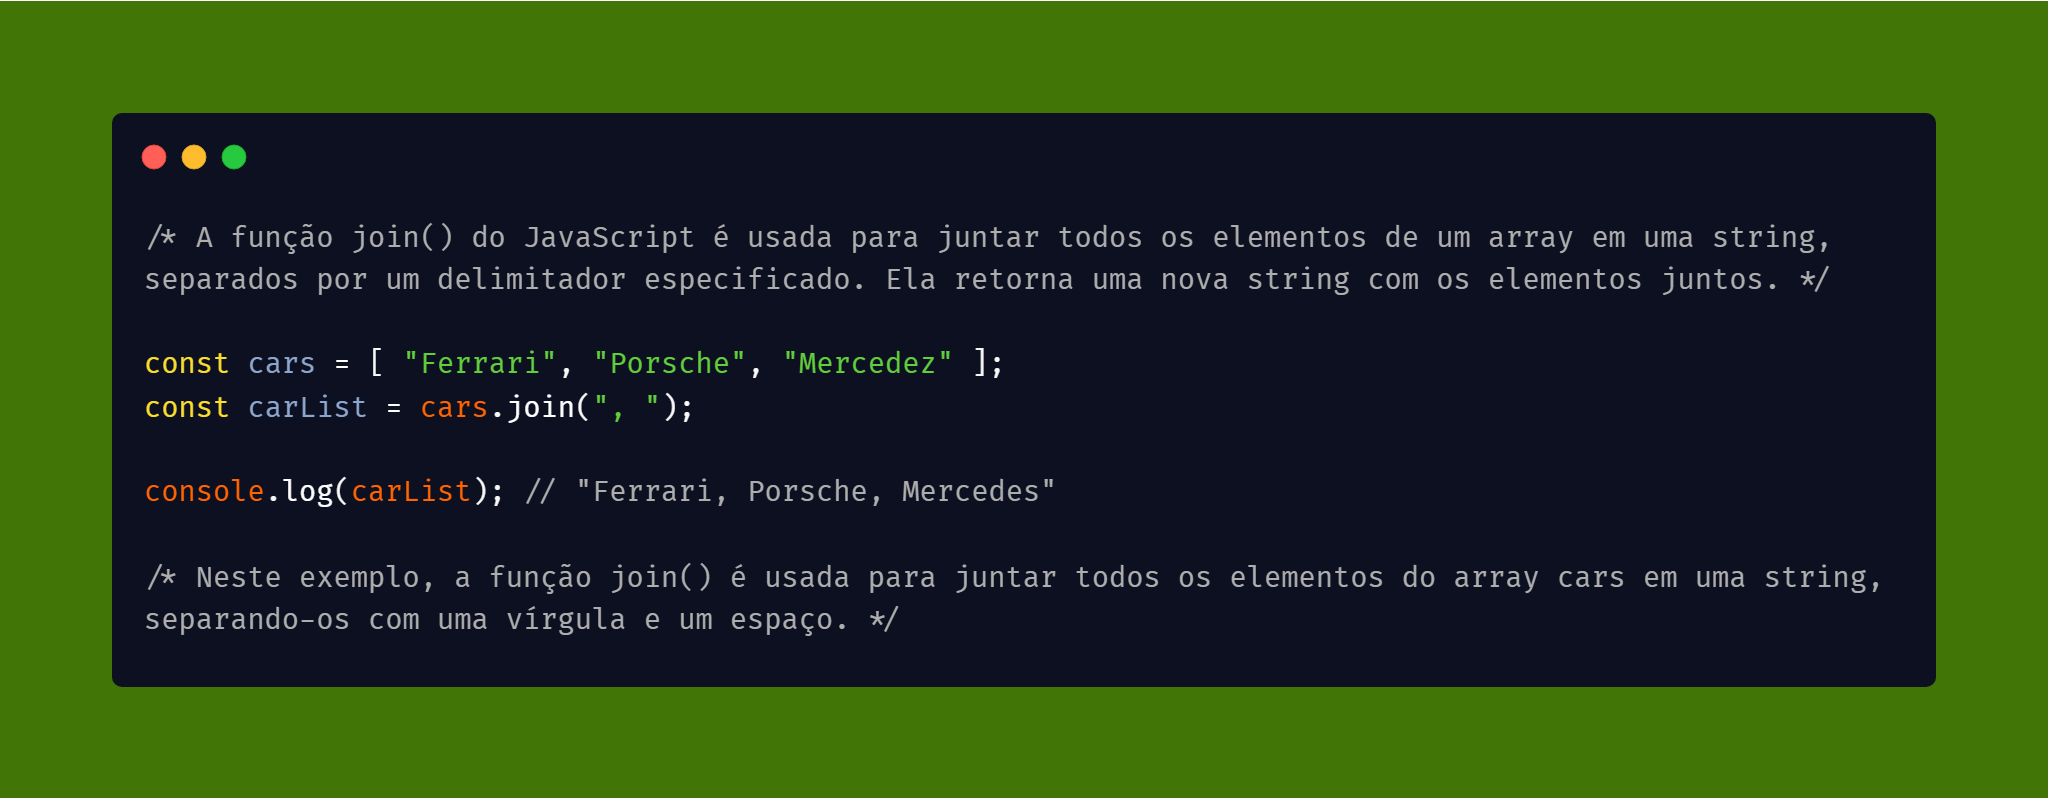
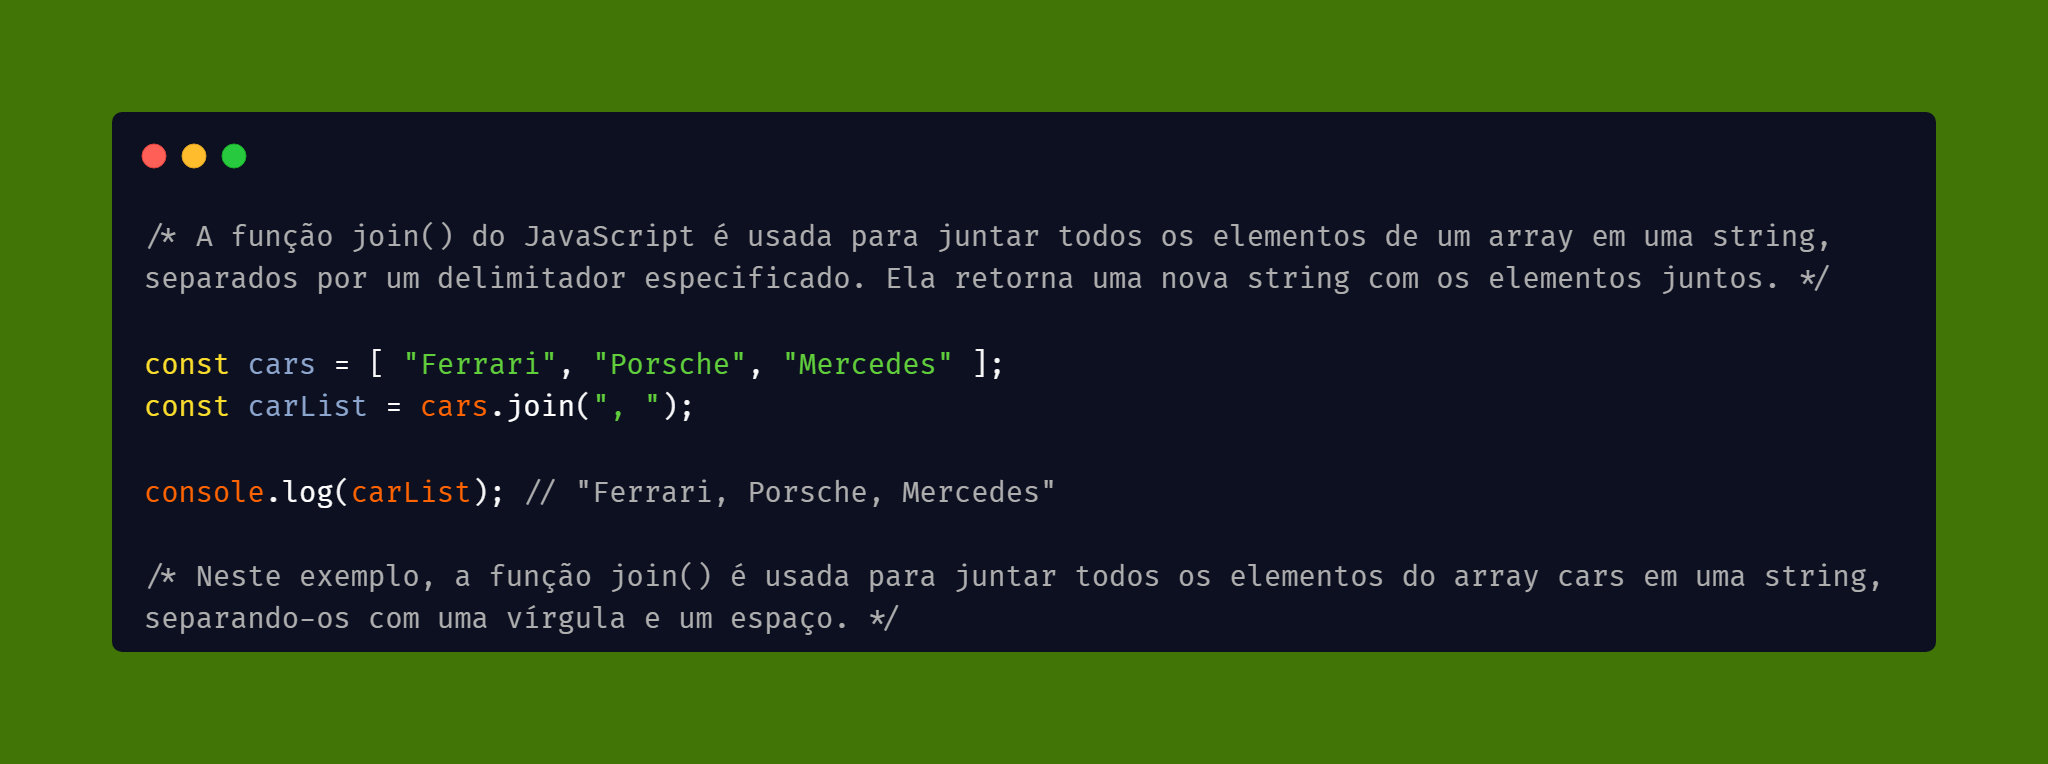
Correção de nome do item do array cars

diff --git a/array-methods-js/2.join.js b/array-methods-js/2.join.js
@@ -1,6 +1,6 @@
 /* A função join() do JavaScript é usada para juntar todos os elementos de um array em uma string, separados por um delimitador especificado. Ela retorna uma nova string com os elementos juntos. */
 
-const cars = [ "Ferrari", "Porsche", "Mercedez" ];
+const cars = [ "Ferrari", "Porsche", "Mercedes" ];
 const carList = cars.join(", ");
 
 console.log(carList); // "Ferrari, Porsche, Mercedes"
